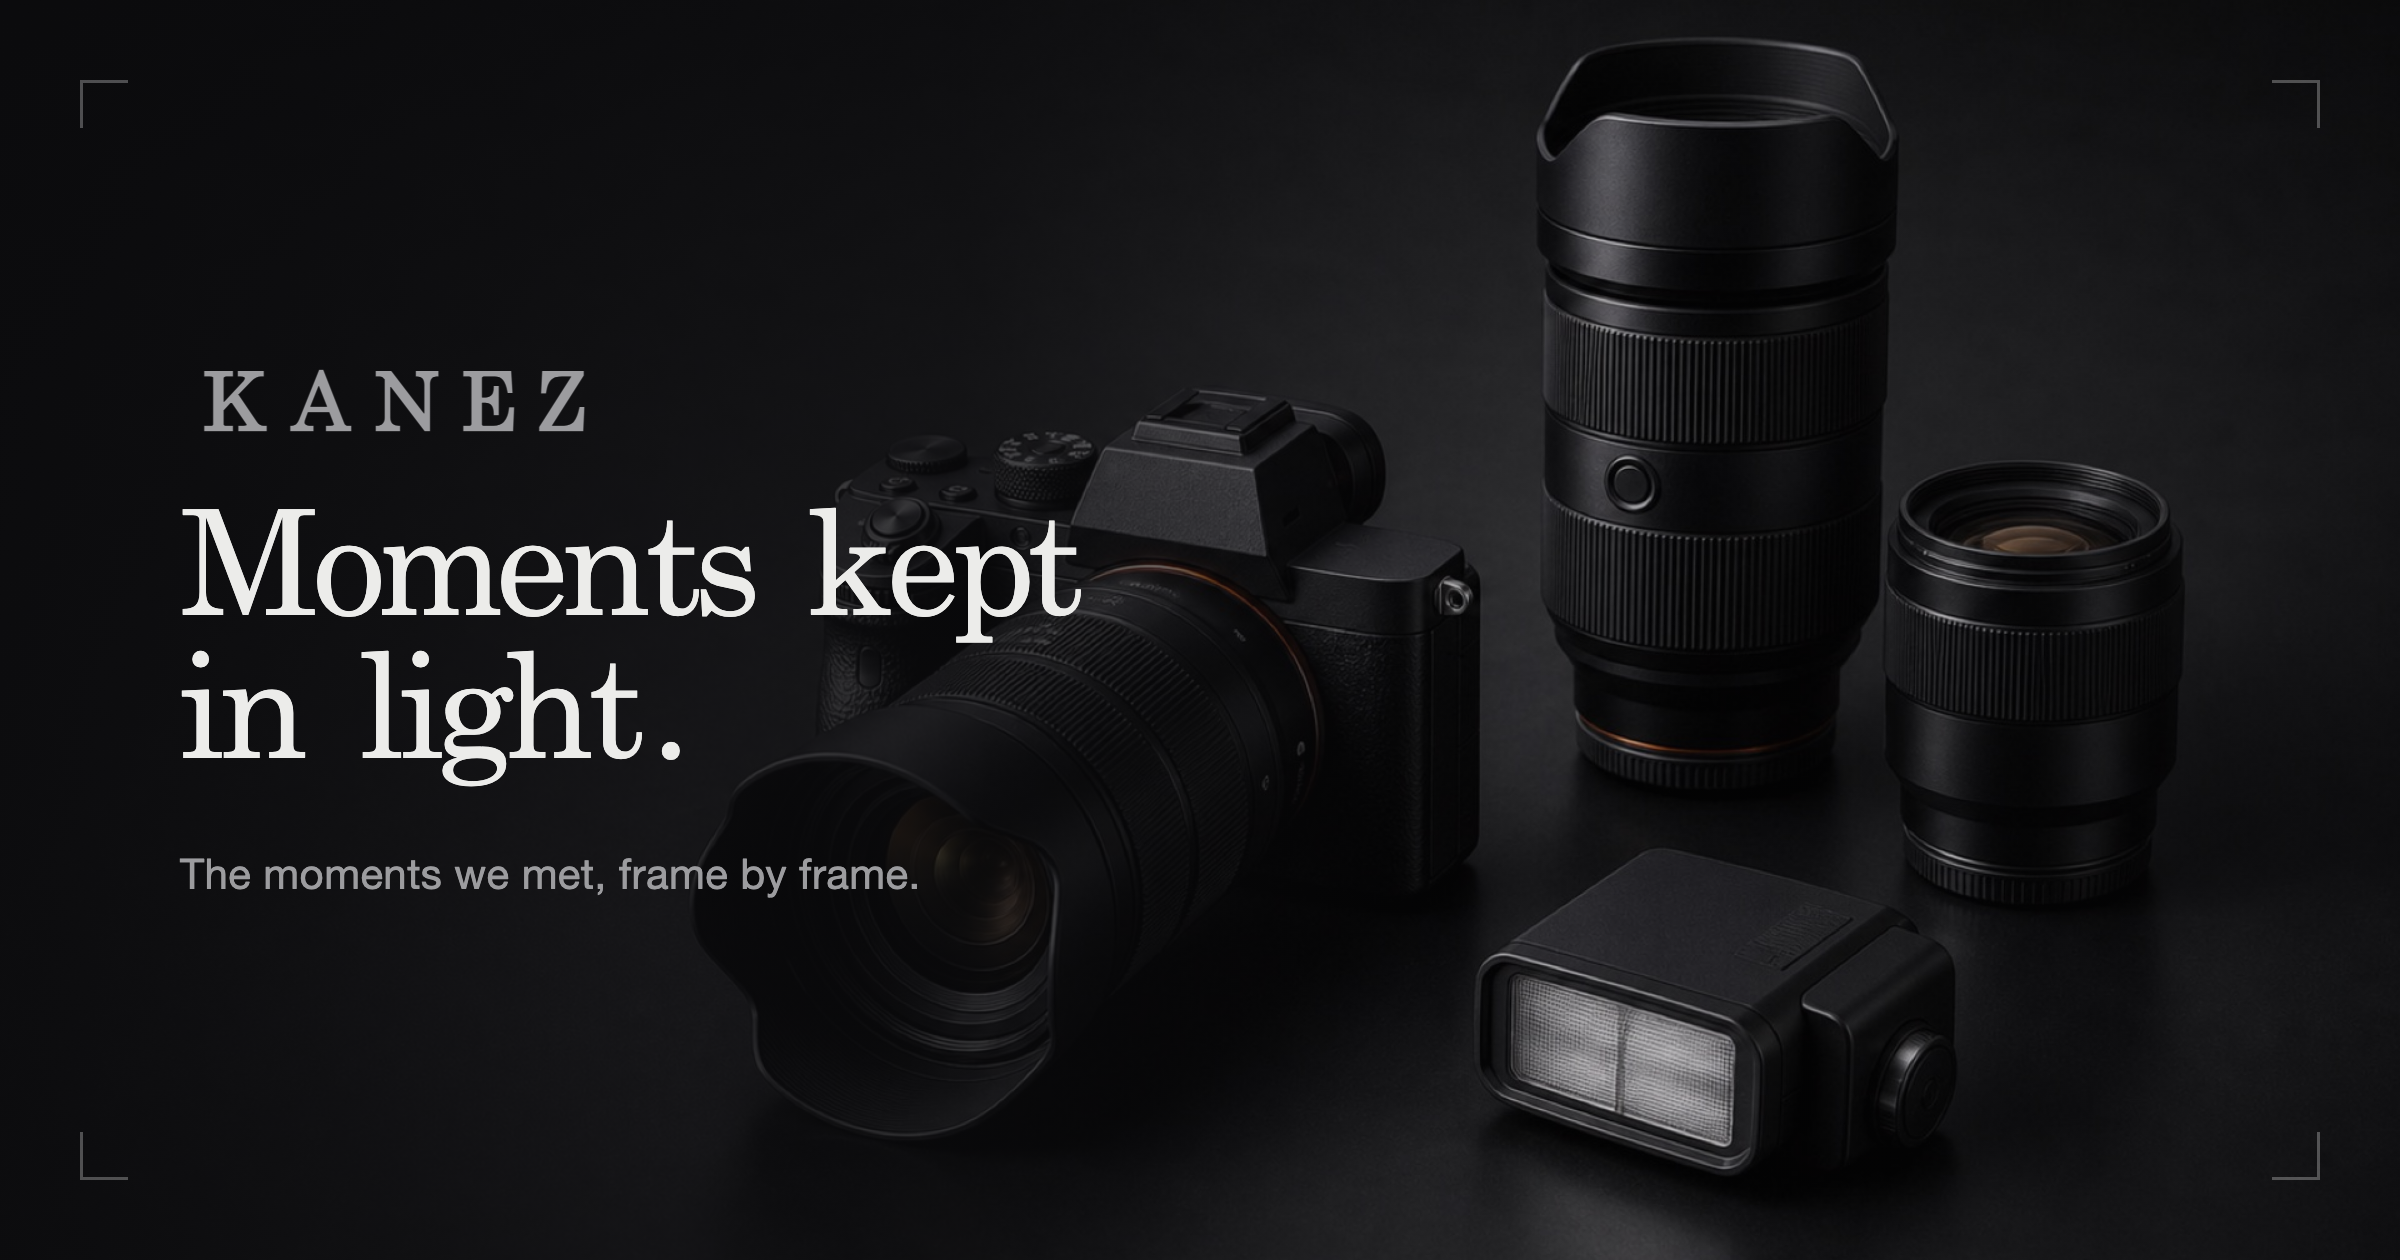
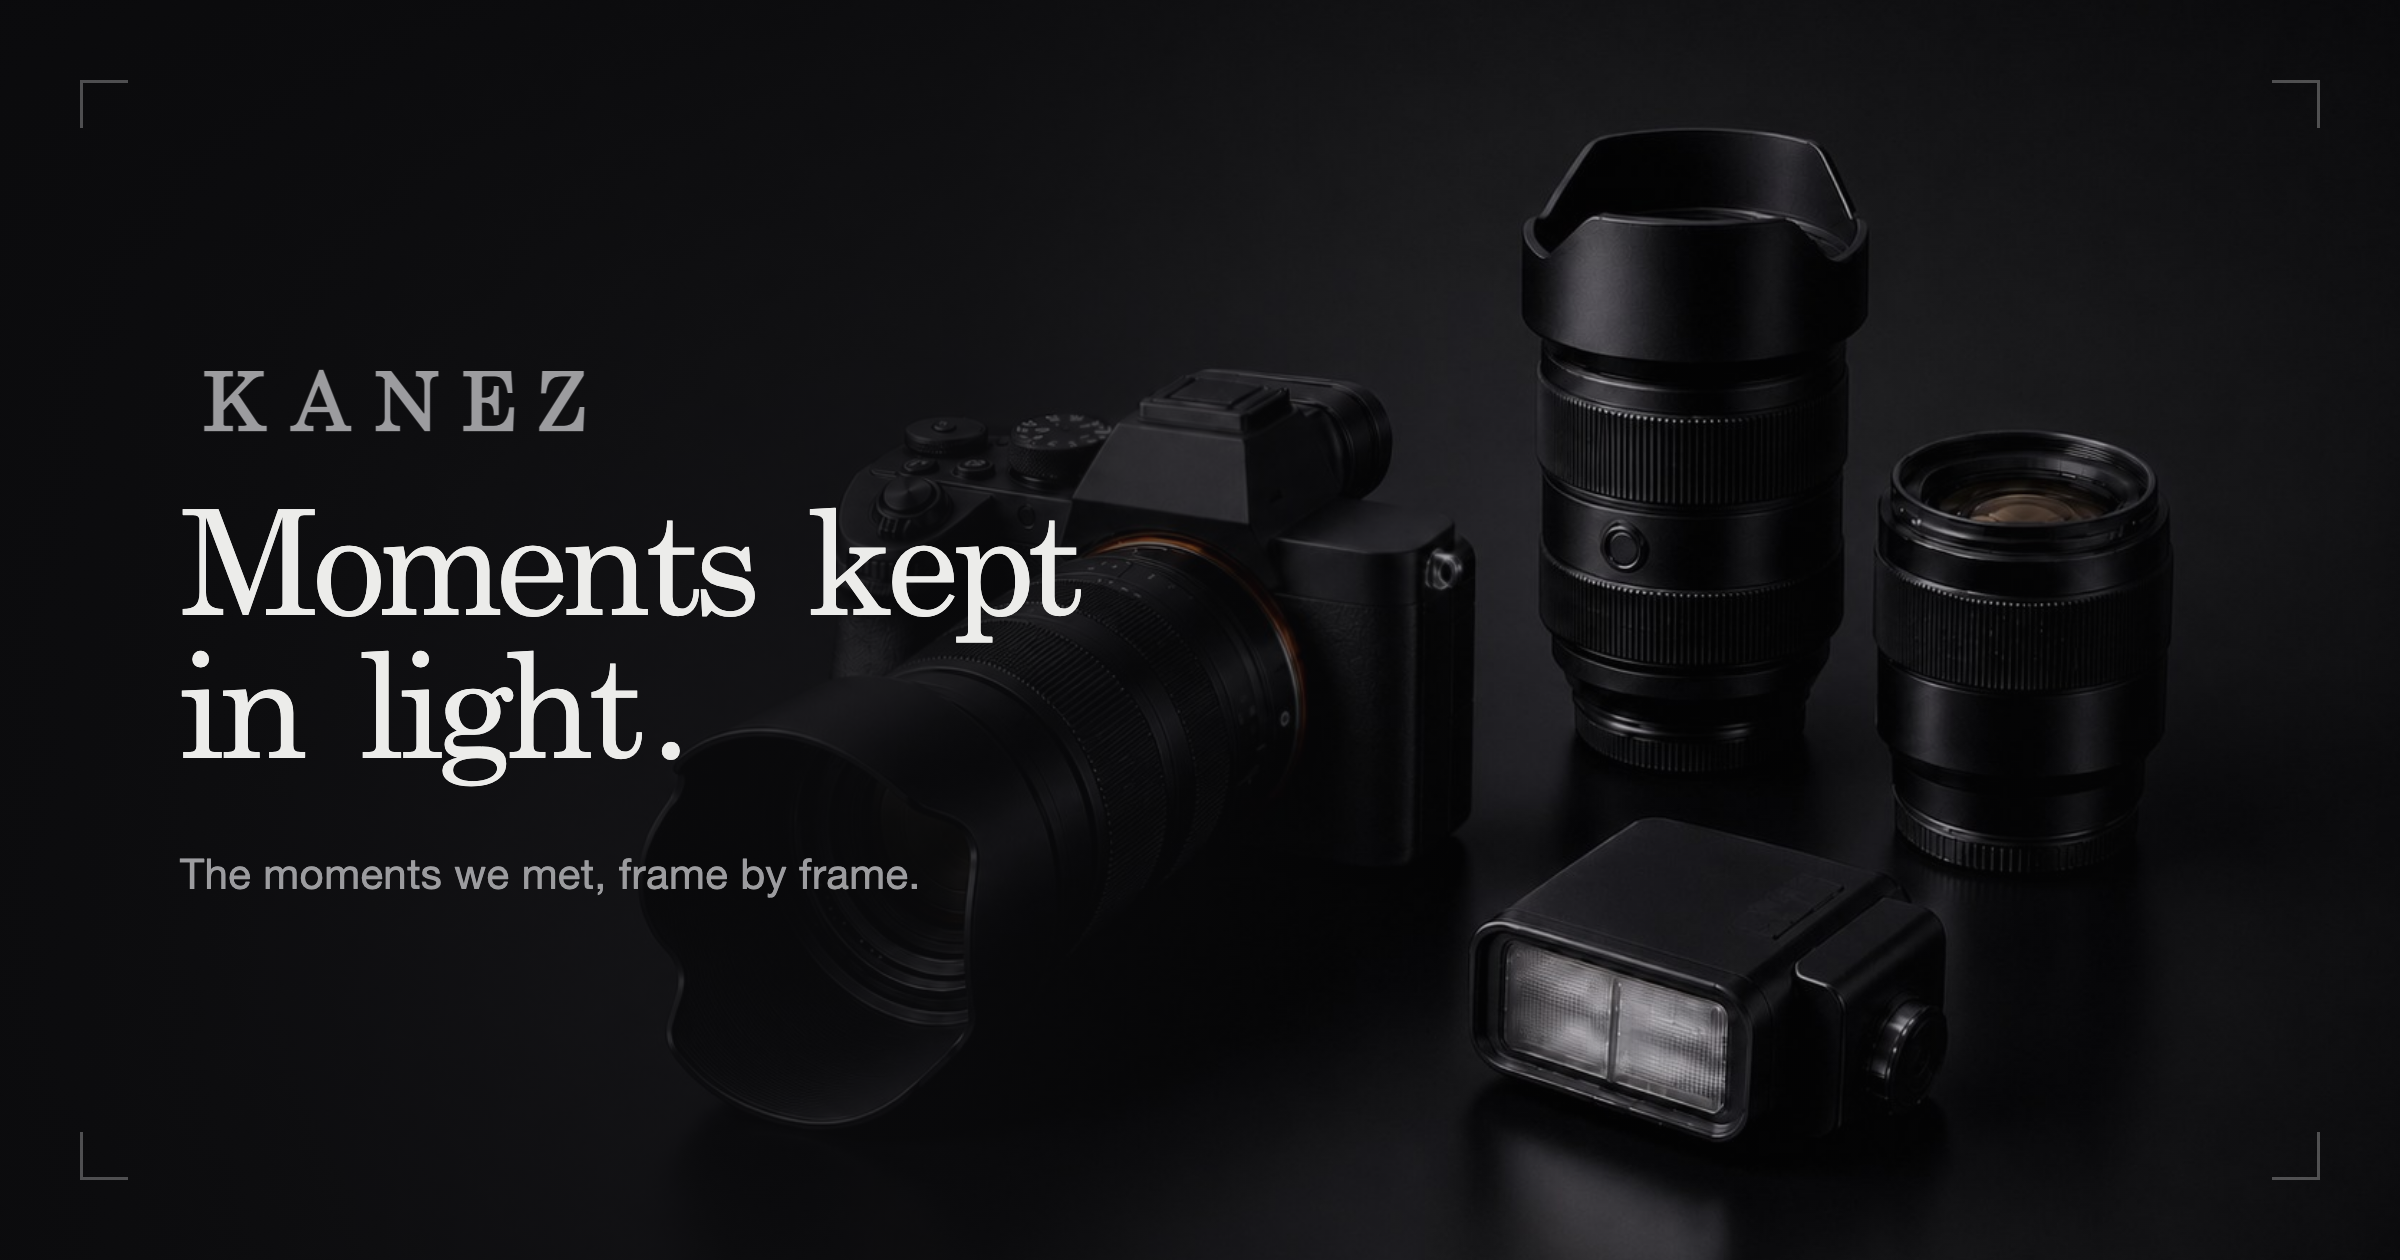
Refresh OG card, count photo totals once, and add a view-count opt-out
- og.png rebuilt on the current intro background (the old one used the
  pre-cleanup gear photo)
- /api/photos returns total only for the first page; infinite scroll keeps the
  value it already has instead of triggering a full COUNT per page
- ?nostat=1 sets a cookie that excludes that browser from view counts
  (?nostat=0 clears it); the root route now returns via c.html so the cookie
  actually reaches the response

diff --git a/src/worker.js b/src/worker.js
@@ -144,6 +144,27 @@ app.get('/api/me', async (c) => c.json({ admin: await isAdmin(c) }))
 function isDirectPageVisit(c) {
   return c.req.header('sec-fetch-dest') === 'document' && c.req.header('sec-fetch-mode') === 'navigate'
 }
+// 집계 제외 쿠키. `/?nostat=1` 로 한 번 접속하면 이후 그 브라우저의 방문은 세지 않습니다.
+// (본인 확인용 방문이나 개발 중 반복 접속이 통계를 부풀리지 않게 합니다. `/?nostat=0` 으로 해제)
+const NOSTAT_COOKIE = 'nostat'
+function applyNostatPreference(c) {
+  const wanted = c.req.query('nostat')
+  if (wanted === '1') {
+    setCookie(c, NOSTAT_COOKIE, '1', {
+      httpOnly: true,
+      secure: new URL(c.req.url).protocol === 'https:',
+      sameSite: 'Lax',
+      path: '/',
+      maxAge: 60 * 60 * 24 * 365,
+    })
+    return true
+  }
+  if (wanted === '0') {
+    deleteCookie(c, NOSTAT_COOKIE, { path: '/' })
+    return false
+  }
+  return getCookie(c, NOSTAT_COOKIE) === '1'
+}
 async function recordSiteView(db) {
   await db.prepare(
     `INSERT INTO site_daily_views (view_date, views)
@@ -490,14 +511,18 @@ app.get('/api/photos', async (c) => {
               (p.sort_order IS NULL), p.sort_order, p.taken_at, p.id
      LIMIT ? OFFSET ?`
   ).bind(limit, offset).all()
-  const totalRow = await c.env.DB.prepare(
-    `SELECT COUNT(*) AS n FROM photos p JOIN collections col ON col.id = p.collection_id
-     WHERE p.deleted_at IS NULL AND col.deleted_at IS NULL${includeDrafts ? '' : ' AND col.published = 1'}`
-  ).first()
+  // 총 개수는 첫 페이지에서만 셉니다. 페이지마다 COUNT(*)를 다시 돌리면 무한 스크롤을
+  // 한 번 당길 때마다 사진 전체를 훑게 됩니다. (이후 페이지는 total: null)
+  const totalRow = offset === 0
+    ? await c.env.DB.prepare(
+        `SELECT COUNT(*) AS n FROM photos p JOIN collections col ON col.id = p.collection_id
+         WHERE p.deleted_at IS NULL AND col.deleted_at IS NULL${includeDrafts ? '' : ' AND col.published = 1'}`
+      ).first()
+    : null
   const { results: modelNameRows } = await c.env.DB.prepare('SELECT handle, name FROM model_names').all()
   const modelNames = Object.fromEntries(modelNameRows.map((row) => [row.handle.toLowerCase(), row.name]))
   return c.json({
-    total: totalRow.n,
+    total: totalRow ? totalRow.n : null,
     photos: results.map((r) => {
       const meta = parseJsonObject(r.g_meta)
       const handles = [].concat(meta.twitter || [])
@@ -1270,9 +1295,10 @@ app.get('/share/collection/:id', async (c) => {
 })
 
 app.get('/', async (c) => {
-  // 로그인한 관리자의 갤러리 확인은 조회수에서 제외합니다.
+  // 로그인한 관리자의 갤러리 확인과 집계 제외(nostat) 브라우저는 조회수에서 빼둡니다.
   // 통계 저장 실패가 갤러리 자체를 막지는 않도록 분리합니다.
-  if (isDirectPageVisit(c) && !(await isAdmin(c))) {
+  const optedOut = applyNostatPreference(c)
+  if (isDirectPageVisit(c) && !optedOut && !(await isAdmin(c))) {
     await recordSiteView(c.env.DB).catch((error) => console.error('site view recording failed', error))
   }
   const res = await c.env.ASSETS.fetch(c.req.raw)
@@ -1296,9 +1322,8 @@ app.get('/', async (c) => {
     `<meta name="twitter:image" content="${ogImage}" />`,
   ].join('\n  ')
   html = html.replace('</head>', '  ' + tags + '\n</head>')
-  return new Response(html, {
-    headers: { 'Content-Type': 'text/html; charset=utf-8' },
-  })
+  // c.html로 반환해야 위에서 설정한 쿠키(nostat)가 응답에 함께 실립니다.
+  return c.html(html)
 })
 
 // ---------- image serving (R2) ----------

diff --git a/test/worker.test.js b/test/worker.test.js
@@ -566,3 +566,61 @@ describe('scheduled cleanup', () => {
     expect(await env.DB.prepare('SELECT id FROM collections WHERE id = ?').bind(staleCollectionId).first()).toBeNull()
   })
 })
+
+describe('photo stream pagination', () => {
+  it('counts the total only on the first page', async () => {
+    const collectionId = await seedCollection({ title: 'Stream', published: 1 })
+    for (let i = 0; i < 3; i++) {
+      await env.DB.prepare('INSERT INTO photos (collection_id, key_large, key_thumb, sort_order) VALUES (?, ?, ?, ?)')
+        .bind(collectionId, `stream-l-${i}`, `stream-t-${i}`, i).run()
+    }
+
+    const firstPage = await (await SELF.fetch('https://example.com/api/photos?offset=0&limit=2')).json()
+    expect(firstPage.total).toBe(3)
+    expect(firstPage.photos).toHaveLength(2)
+
+    // 이후 페이지는 total을 다시 세지 않습니다(무한 스크롤마다 전체 스캔 방지).
+    const secondPage = await (await SELF.fetch('https://example.com/api/photos?offset=2&limit=2')).json()
+    expect(secondPage.total).toBeNull()
+    expect(secondPage.photos).toHaveLength(1)
+  })
+})
+
+describe('view counting', () => {
+  const visit = (headers = {}) => SELF.fetch('https://example.com/', {
+    headers: { 'sec-fetch-dest': 'document', 'sec-fetch-mode': 'navigate', ...headers },
+  })
+  const totalViews = async () => (await env.DB.prepare('SELECT COALESCE(SUM(views), 0) AS n FROM site_daily_views').first()).n
+
+  it('counts a real browser navigation but not link-preview bots', async () => {
+    expect(await totalViews()).toBe(0)
+    await visit()
+    expect(await totalViews()).toBe(1)
+    // Sec-Fetch 헤더가 없는 요청(미리보기 봇·스크래퍼)은 세지 않습니다.
+    await SELF.fetch('https://example.com/')
+    expect(await totalViews()).toBe(1)
+  })
+
+  it('stops counting a browser that opted out with ?nostat=1', async () => {
+    await visit()
+    expect(await totalViews()).toBe(1)
+
+    const response = await SELF.fetch('https://example.com/?nostat=1', {
+      headers: { 'sec-fetch-dest': 'document', 'sec-fetch-mode': 'navigate' },
+    })
+    const cookie = response.headers.get('set-cookie')?.split(';')[0]
+    expect(cookie).toContain('nostat=1')
+
+    const countBefore = await totalViews()
+    await visit({ cookie })
+    await visit({ cookie })
+    expect(await totalViews()).toBe(countBefore)
+  })
+
+  it('excludes a logged-in admin', async () => {
+    const { cookie } = await login()
+    const before = await totalViews()
+    await visit({ cookie })
+    expect(await totalViews()).toBe(before)
+  })
+})

diff --git a/public/app.js b/public/app.js
@@ -823,7 +823,10 @@ window.addEventListener('scroll', async () => {
     const r = await api(`/photos?offset=${photosMore.offset}&limit=60`)
     jSets[0].photos.push(...r.photos.map(decoratePhoto))
     photosMore.offset += r.photos.length
-    photosMore.total = r.total
+    // 총 개수는 첫 페이지 응답에만 담깁니다(이후 페이지는 null). 처음 값을 그대로 유지합니다.
+    if (typeof r.total === 'number') photosMore.total = r.total
+    // 응답이 비면 더 받을 게 없다는 뜻이라 반복 요청을 멈춥니다.
+    if (!r.photos.length) photosMore.total = photosMore.offset
     layoutJustifiedAll()
   } finally {
     photosMore.loading = false
